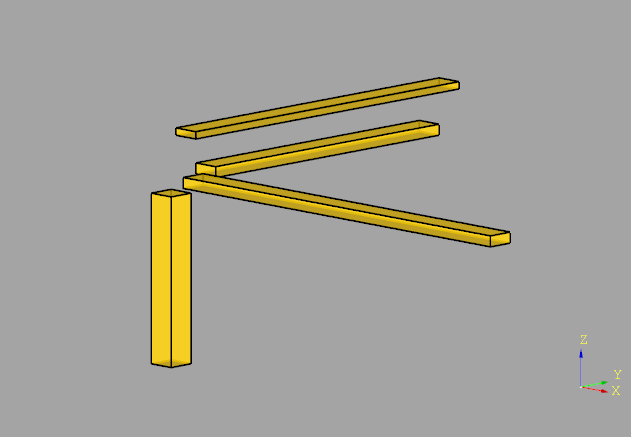
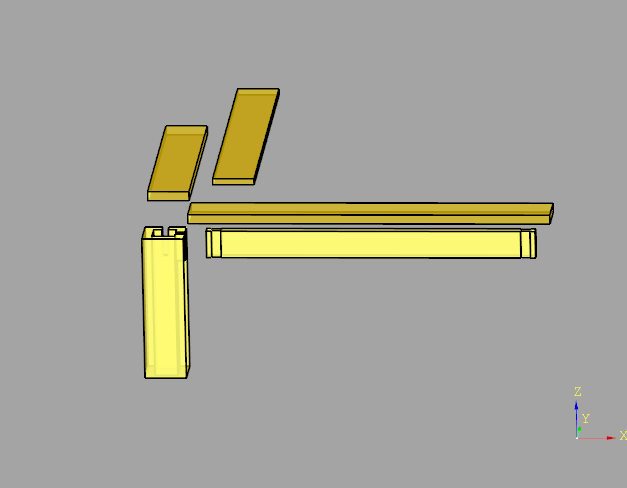
parts

Changed region(s): [[0.2121, 0.1785, 0.9091, 0.8627], [0.9091, 0.7735, 1.0, 0.9222]]

diff --git a/student-bed.py b/student-bed.py
@@ -232,13 +232,6 @@ class SimpleBed:
             xo = xo+dbw2+dbg
         #show_object(duckboard,name="duckboard",options={"alpha":0.2,"color":(255,170,0)})
 
-        #ToDo: add new parts
-        stringer_moved = stringer.translate((600,0,250))
-        ledger_moved   = ledger_2.translate((0,500,250))
-        batten_moved   = batten_3.translate((0,500,350))
-        parts = jamb.union(stringer_moved).union(ledger_moved).union(batten_moved)
-        #show_object(parts,name="parts",options={"alpha":0.2,"color":(255,170,0)})
-
         # bed
         bjl  = self.measures["jamb.length"]
         bst  = self.measures["stringer.thickness"]
@@ -249,7 +242,16 @@ class SimpleBed:
         bed = frame.translate((0,0,bzo1))                                                # frame
         bed = bed.union(duckboard.translate((bxo,0,bzo2)))                               # half right
         bed = bed.union(duckboard.rotate((0,0,0),(0,0,1),180).translate((-bxo,0,bzo2)))  # half left
-        show_object(bed,name="bed",options={"alpha":0.2,"color":(255,170,0)})
+        #show_object(bed,name="bed",options={"alpha":0.2,"color":(255,170,0)})
+
+        # parts
+        jamb_moved     = jamb_corner.translate((0,0,0))
+        rib_moved      = rib_stringer.translate((600,0,180))
+        stringer_moved = stringer.translate((600,0,270))
+        ledger_moved   = ledger_2.translate((0,500,270))
+        batten_moved   = batten_3.translate((200,500,350))
+        parts = jamb_moved.union(rib_moved).union(stringer_moved).union(ledger_moved).union(batten_moved)
+        show_object(parts,name="parts",options={"alpha":0.2,"color":(255,170,0)})
 
         self.model = bed
         return
